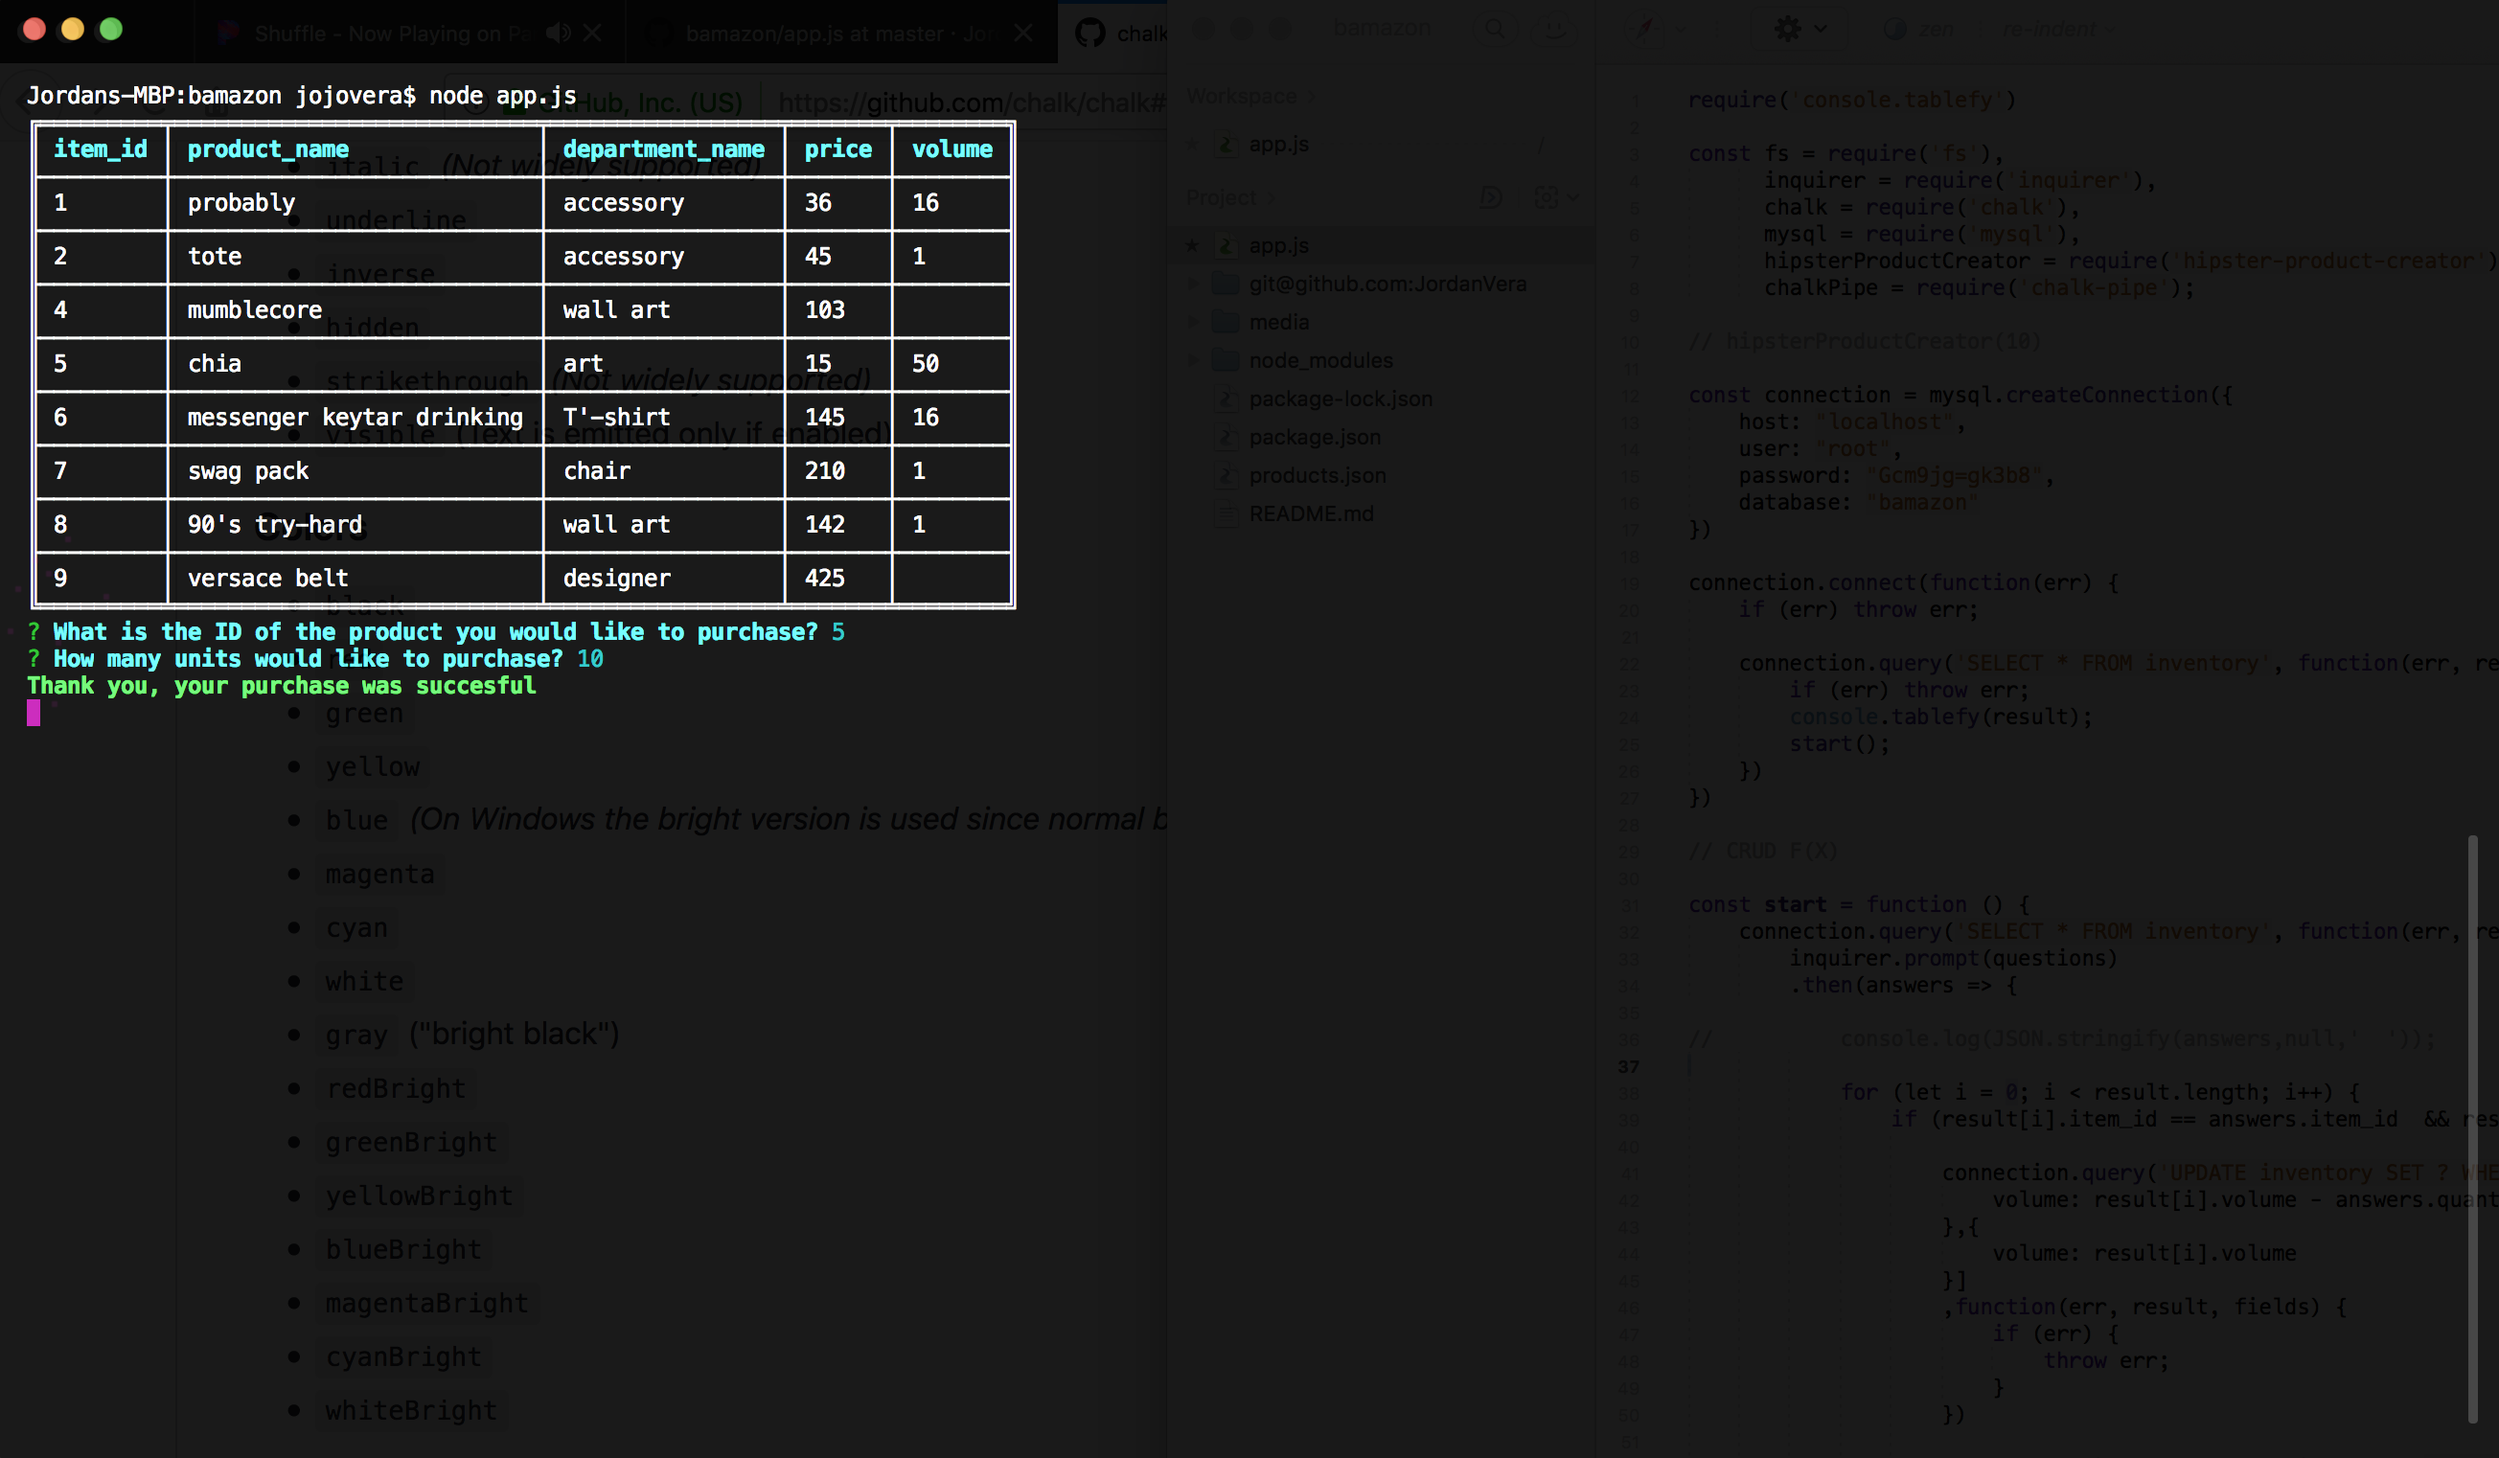
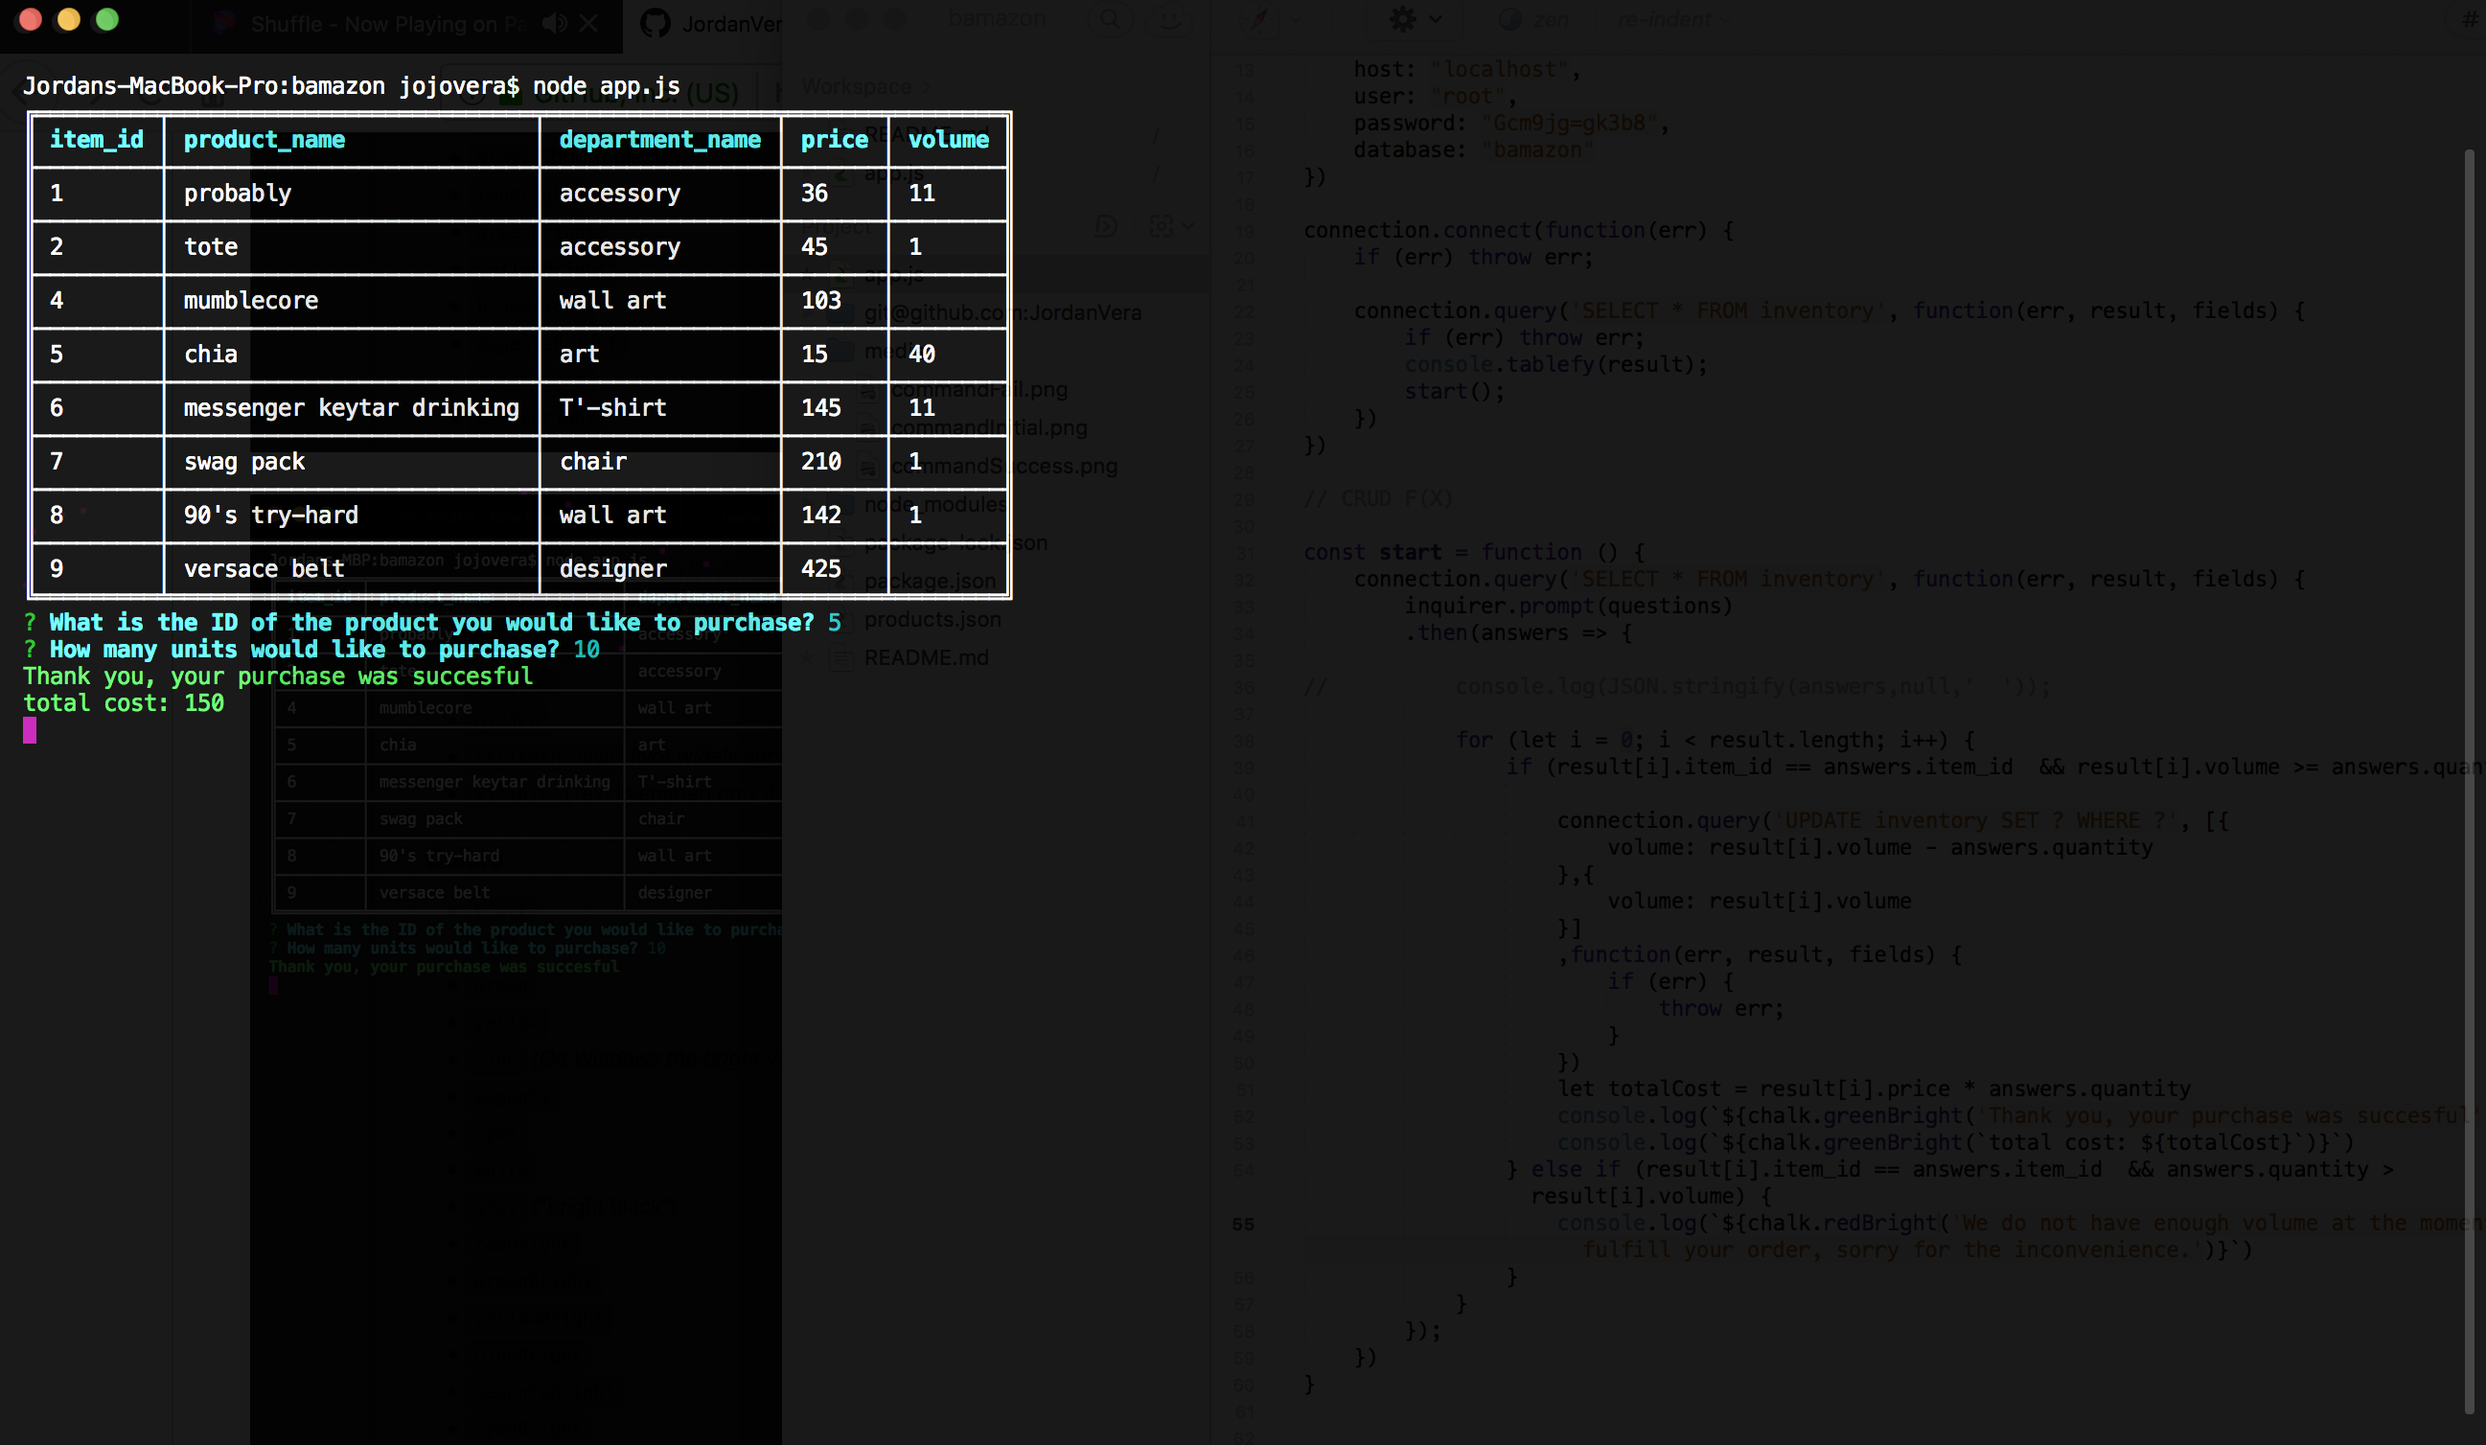
fixed pricing bug

diff --git a/app.js b/app.js
@@ -48,10 +48,11 @@ const start = function () {
 							throw err;
 						}
 					})
-					
-					console.log(`${chalk.greenBright.bold('Thank you, your purchase was succesful')}`)
+					let totalCost = result[i].price * answers.quantity
+					console.log(`${chalk.greenBright('Thank you, your purchase was succesful')}`)
+					console.log(`${chalk.greenBright(`total cost: ${totalCost}`)}`)
 				} else if (result[i].item_id == answers.item_id  && answers.quantity > result[i].volume) {
-					console.log(`${chalk.redBright.bold('We do not have enough volume at the moment to fulfill your order, sorry for the inconvenience.')}`)
+					console.log(`${chalk.redBright('We do not have enough volume at the moment to fulfill your order, sorry for the inconvenience.')}`)
 				}
 			}
 		});
